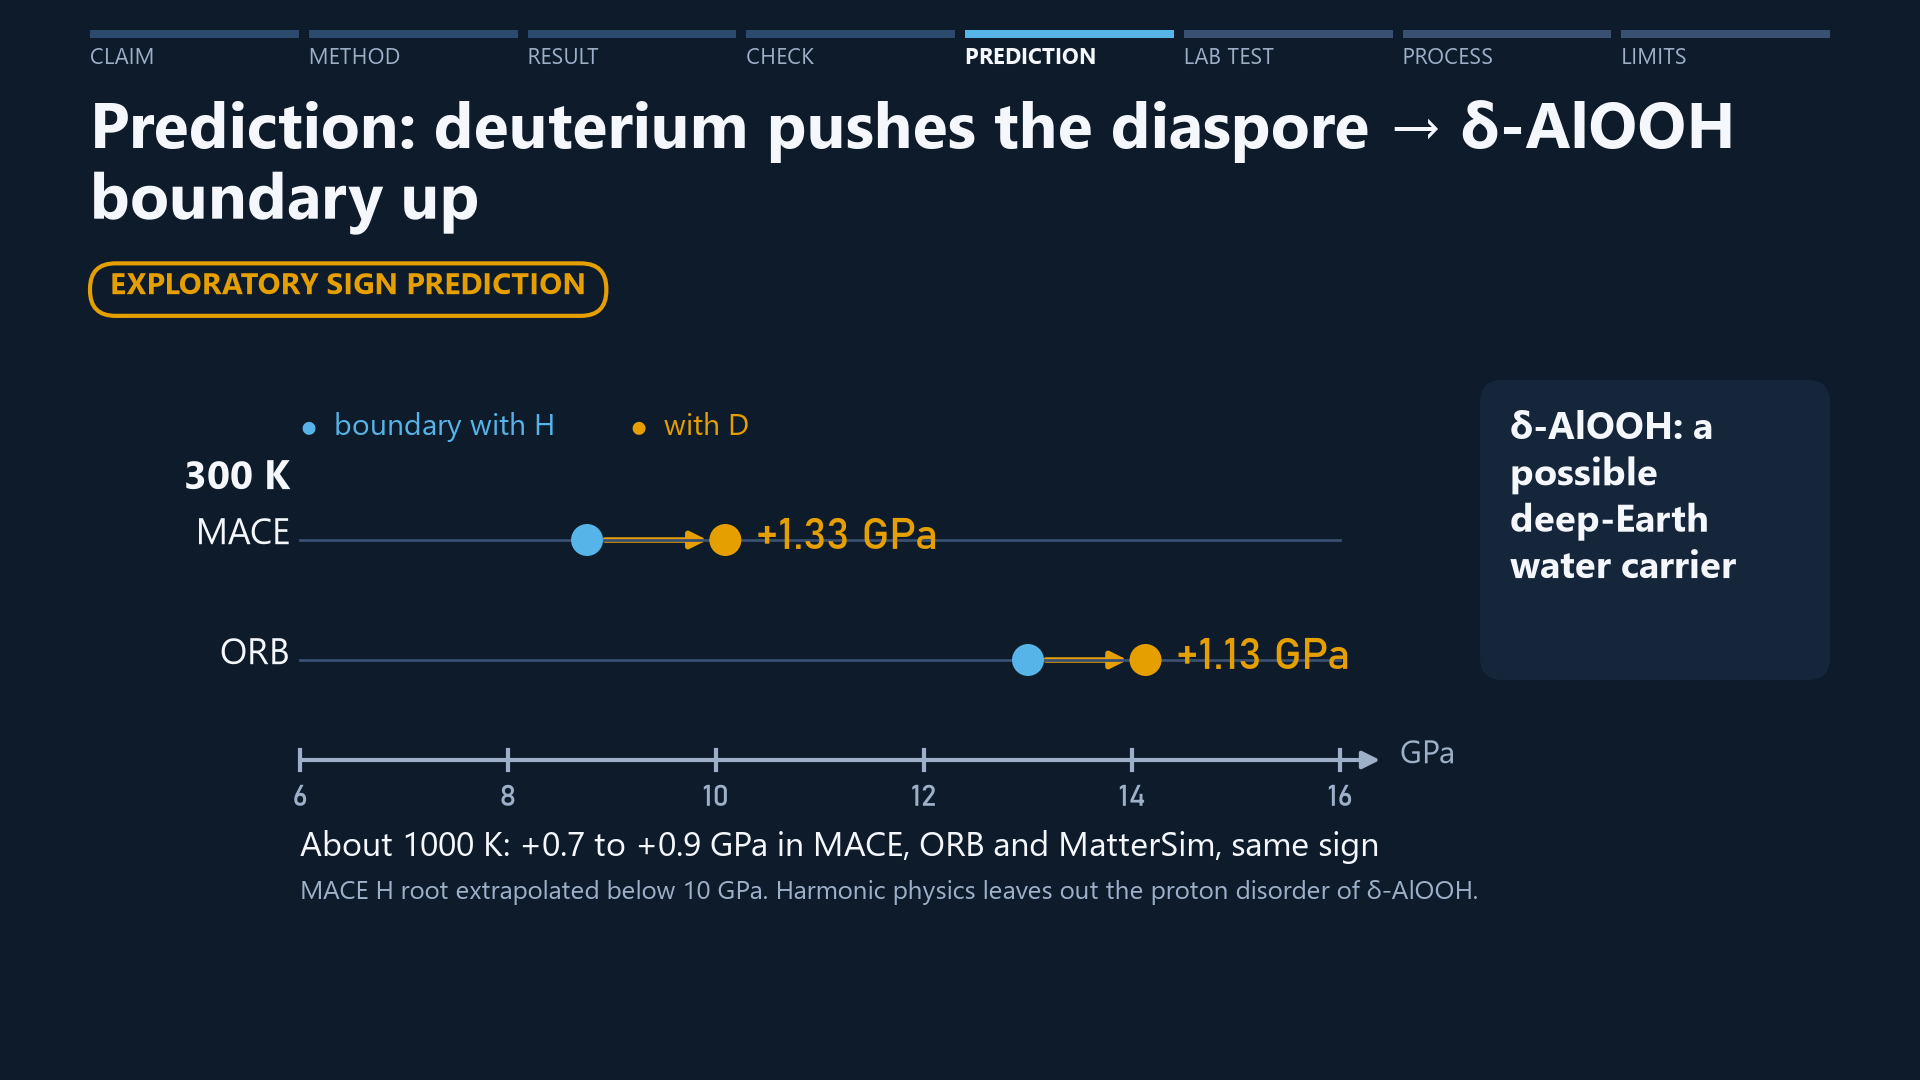
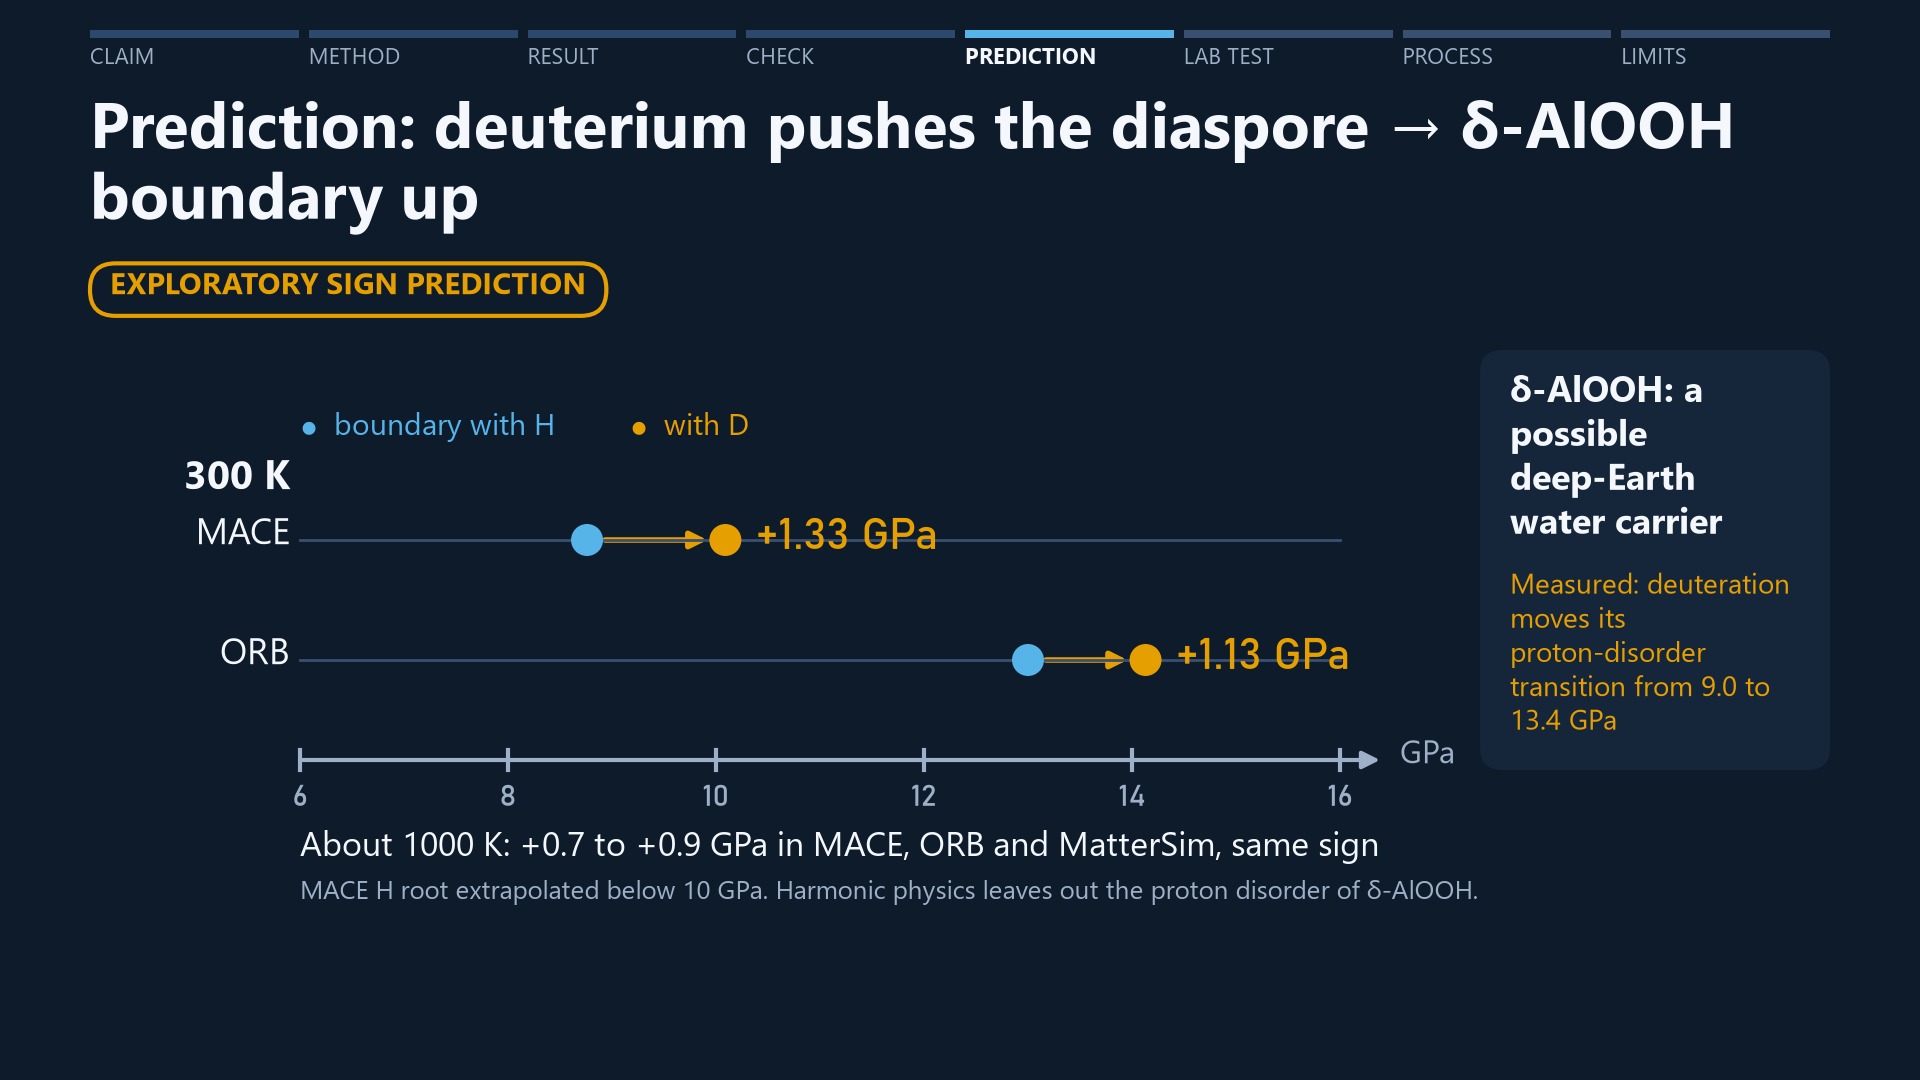
video v13: +4.4 GPa hook with Can's new opening lines, what-we-found line after the hook, limits line matches the slides, closing line on the lab test; FOUND AT THIS HACKATHON tags; measured 9.0 to 13.4 GPa on the prediction slide; quieter music bed (3:47)

Changed region(s): [[0.7812, 0.3361, 0.9375, 0.6722]]

diff --git a/docs/story/video/build_video.py b/docs/story/video/build_video.py
@@ -20,7 +20,7 @@ from pathlib import Path
 
 HERE = Path(__file__).parent
 REPO = HERE.parents[2]
-SLIDES = {"01": "slide_01_title", "02": "slide_02_method", "03": "slide_03_headline", "04": "slide_03b_counts_zoom",
+SLIDES = {"H0": "slide_00_hook", "01": "slide_01_title", "02": "slide_02_method", "03": "slide_03_headline", "04": "slide_03b_counts_zoom",
           "05": "slide_03c_weak_side_zoom", "06": "slide_04_stretch_check", "07": "slide_05_alooh_card",
           "08": "slide_06_m02_bridge", "09": "slide_07_ai_process", "10": "slide_07c_bond_trace",
           "11": "slide_07b_commit_timeline", "13": "slide_08_limits_repo"}
@@ -28,7 +28,7 @@ APP_SHOTS = ["01_f01_banner", "02_check_a_pair", "03_how_we_know"]
 LEAD, PAD_IN, PAD_OUT, GAP, HOLD = 0.4, 0.12, 0.25, 0.35, 1.8  # seconds
 EXTRA_HOLD = {"01": 1.8, "03": 1.0, "09": 5.0, "10": 4.0}  # silent beats: the rule lands (01), before the scoreboard (03); reading time (09, 10)
 XFADE, ZOOM = 0.45, 0.035  # crossfade seconds, push-in over one slide
-MUSIC = -12  # synthesized pad under the voice, dB (None for voice only)
+MUSIC = -17  # synthesized pad under the voice, dB (None for voice only)
 FPS = 30
 INTRO = HERE / "anim" / "intro"  # cold open frames (make_slides_v3.intro_frames), played before the narration
 REVEAL = "03"  # the score swells into this segment (the result slide)
@@ -188,7 +188,7 @@ def speech_span(p):
 
 
 def read_sheet():
-    rows = re.findall(r"^\| (\d\d) \| [^|]+ \| (.+) \|$", (HERE / "READ_SHEET.md").read_text(encoding="utf-8"), re.M)
+    rows = re.findall(r"^\| (\d\d|H0) \| [^|]+ \| (.+) \|$", (HERE / "READ_SHEET.md").read_text(encoding="utf-8"), re.M)
     return dict(rows)
 
 
@@ -247,16 +247,18 @@ def build(segs, files, words, tmp, out_mp4, srt_path, screen=None, face=None):
     audio_parts, video_parts, cues, t = [], [], [], 0.0
     starts = {}
     n_intro = len(list(INTRO.glob("f*.png"))) if INTRO.is_dir() and segs[0] != "00" else 0
-    if n_intro:  # cold open: silence under the narration track, so audio and captions start after it
-        t = n_intro / FPS
-        sil = tmp / "a_intro.wav"
-        run("ffmpeg", "-y", "-v", "error", "-f", "lavfi", "-i", "anullsrc=r=48000:cl=mono", "-t", f"{t:.3f}",
-            "-c:a", "pcm_s16le", str(sil))
-        audio_parts.append(sil)
-        video_parts.append(("intro", INTRO, t))
-    intro_len = t
+    intro_len = 0.0
     beats, swells = {}, []
     for n, sid in enumerate(segs):
+        if sid == "01" and n_intro:  # cold open after the hook: music only, so audio and captions wait for it
+            d_in = n_intro / FPS
+            sil = tmp / "a_intro.wav"
+            run("ffmpeg", "-y", "-v", "error", "-f", "lavfi", "-i", "anullsrc=r=48000:cl=mono", "-t", f"{d_in:.3f}",
+                "-c:a", "pcm_s16le", str(sil))
+            audio_parts.append(sil)
+            video_parts.append(("intro", INTRO, d_in))
+            t += d_in
+            intro_len = t
         starts[sid] = t
         f = files[sid]
         a, b = speech_span(f)
@@ -450,6 +452,8 @@ def main():
     out = Path(a.out_dir)
     out.mkdir(parents=True, exist_ok=True)
     body = [f"{i:02d}" for i in range(1, 14)]
+    if "H0" in files:
+        body = ["H0"] + body
     with tempfile.TemporaryDirectory() as td:
         tmp = Path(td)
         t = build(body, files, words, tmp, out / "isoshift_youtube.mp4", HERE / "captions.srt", screen=a.screen)

diff --git a/docs/story/video/make_slides_v3.py b/docs/story/video/make_slides_v3.py
@@ -151,10 +151,26 @@ def bond(ax, x, y, length, label, sub, good, iso="D"):
         chip(ax, x + 170, y + 84, "favoured with D", GREEN, 28, fill=True)
 
 
+def slide_00():
+    """Hook card: a measured isotope shift of a phase transition (not one of our predictions)."""
+    fig = plt.figure(figsize=(W / DPI, H / DPI), dpi=DPI)
+    fig.patch.set_facecolor(BG)
+    ax = fig.add_axes([0, 0, 1, 1])
+    ax.set_xlim(0, W)
+    ax.set_ylim(H, 0)
+    ax.axis("off")
+    text(ax, W / 2, 210, "+4.4 GPa", 300, ORANGE, "bold", family=NUM, ha="center")
+    text(ax, W / 2, 590, "H → D in δ-AlOOH moves a measured transition from 9.0 to 13.4 GPa", 44, INK, ha="center")
+    text(ax, W / 2, 660, "proton-disorder transition, Sano-Furukawa et al. 2018", 32, MUTED, ha="center")
+    text(ax, W / 2, 790, "Which crystals does deuterium shift, and which way?", 48, BLUE, "bold", ha="center")
+    save(fig, "slide_00_hook.png")
+
+
 def slide_01():
     fig, ax = canvas(0)
     text(ax, X0, 105, "IsoShift", 150, INK, "bold")
-    chip(ax, X0, 292, "THE SHORT-BOND RULE", ORANGE, 34, fill=True)
+    xc = chip(ax, X0, 292, "THE SHORT-BOND RULE", ORANGE, 34, fill=True)
+    chip(ax, xc + 24, 292, "FOUND AT THIS HACKATHON", GREEN, 34, fill=True)
     text(ax, X0, 380, "Deuteration favours the polymorph", 64, INK, "bold")
     text(ax, X0, 458, "with the shorter O-H bonds", 64, BLUE, "bold")
     E = ease(P)
@@ -213,6 +229,7 @@ def slide_03():
     ax.add_patch(Rectangle((X0, 186), w1, 6, color=ORANGE, lw=0))
     image_card(ax, ROOT / "figures" / "fig_headline.png", X0 + 14, 214, 1110)
     x = 1300
+    chip(ax, x, 925, "FOUND AT THIS HACKATHON", GREEN, 32, fill=True)
     text(ax, x, 220, "220", 120, BLUE, "bold", family=NUM)
     text(ax, x, 360, "polymorph pairs screened", 38, INK)
     text(ax, x, 450, "0.11 to 0.13", 96, BLUE, "bold", family=NUM)
@@ -324,8 +341,10 @@ def slide_05():
     text(ax, ax0, 830, "About 1000 K: +0.7 to +0.9 GPa in MACE, ORB and MatterSim, same sign", 34, INK)
     text(ax, ax0, 880, "MACE H root extrapolated below 10 GPa. Harmonic physics leaves out the proton disorder of δ-AlOOH.",
          26, MUTED)
-    box(ax, 1480, 380, XR - 1480, 300, fc=PANEL)
-    wrap(ax, 1510, 410, "δ-AlOOH: a possible deep-Earth water carrier", 38, XR - 1540, color=INK, weight="bold")
+    box(ax, 1480, 350, XR - 1480, 420, fc=PANEL)
+    yb = wrap(ax, 1510, 375, "δ-AlOOH: a possible deep-Earth water carrier", 36, XR - 1540, color=INK, weight="bold")
+    wrap(ax, 1510, yb + 22, "Measured: deuteration moves its proton-disorder transition from 9.0 to 13.4 GPa", 28, XR - 1540,
+         color=ORANGE)
     save(fig, "slide_05_alooh_card.png")
 
 
@@ -500,7 +519,7 @@ def render_animations():
 
 
 if __name__ == "__main__":
-    for f in (slide_01, slide_02, slide_03, slide_03b, slide_03c, slide_04, slide_05, slide_06,
+    for f in (slide_00, slide_01, slide_02, slide_03, slide_03b, slide_03c, slide_04, slide_05, slide_06,
               slide_07, slide_07c, slide_07b, slide_08):
         f()
     render_animations()

diff --git a/docs/story/video/READ_SHEET.md b/docs/story/video/READ_SHEET.md
@@ -73,7 +73,8 @@ Numbers:
 | # | On screen | Read |
 |---|---|---|
 | 00 | face (camera) | Hi, I'm Can, a metallurgical and materials engineer. This is IsoShift. |
-| 01 | slide_01_title | Swap hydrogen for deuterium in a hydrogen-bonded crystal and, in our calculations, it leans toward the polymorph with the shorter O-H bonds. Three machine-learned potentials get this sign in 185 of 212 cases where the hydrogen bonds are moderate or strong, and the rule says where it stops working. |
+| H0 | slide_00_hook | One extra neutron in hydrogen moves a crystal transition by four gigapascals. We found no rule for which crystals this hits. So we found one. |
+| 01 | slide_01_title | Swap hydrogen for deuterium in a hydrogen-bonded crystal and, in our calculations, it leans toward the polymorph with the shorter O-H bonds. Three machine-learned potentials get this sign in 185 of 212 cases where the hydrogen bonds are moderate or strong, and the rule says where it stops working. What we found at this hackathon is a simple rule: deuterium favours the crystal with shorter O-H bonds. |
 | 02 | slide_02_method | Polymorph energy gaps are smaller than any machine-learned potential's error. So we compute only the isotope difference. Force constants do not depend on mass, so one phonon calculation gives both hydrogen and deuterium free energies, and the static gap cancels. Three universal potentials do the work; SevenNet only votes on signs. |
 | 03 | slide_03_headline | We screened 220 polymorph pairs. The isotope free-energy difference follows the change in mean O-H length, 0.11 to 0.13 meV per hydrogen per thousandth of an angstrom. The O-H stretch drives it, and bending and libration cancel about half. |
 | 04 | slide_03b_counts_zoom | Where hydrogen bonds are moderate or strong, deuteration favours the polymorph with the shorter O-H bonds in 185 of 212 model evaluations. A baseline that always guesses one sign gets 131. Counted per pair, 74 are right and 10 are wrong, and all 10 wrong pairs contain the same aluminium hydroxide structure, where bending and libration outweigh the stretch. |
@@ -85,6 +86,6 @@ Numbers:
 | 10 | slide_07c_bond_trace | Literature agents on Valency Bond pulled the measured values and logged every query. |
 | 11 | slide_07b_commit_timeline | Predictions were committed to git before the data were read. Councils of three models argued each claim, and every decision records its dissent. A second model rewrote the calculation blind and matched our numbers. |
 | 12 | marimo screen clip | Everything runs in an open marimo app. Pick a pair and see the model numbers, the rule's call, and the Bond query behind each measured value. |
-| 13 | slide_08_limits_repo | Limits. One blind test came out mixed. The physics is harmonic, with no proton tunnelling. The potentials are trained on similar data, so three models agreeing is not three validations. Code, data and every decision are public. |
+| 13 | slide_08_limits_repo | Limits. Two blind tests did not pass: one came out mixed, one failed. The physics is harmonic, with no proton tunnelling. The potentials are trained on similar data, so three models agreeing is not three validations. Code, data and every decision are public. One measurement, D/H partitioning between coexisting polymorphs, can now test it. |
 
 Target total of 01 to 13: 3:30 to 3:45. Hard limit 4:00.
